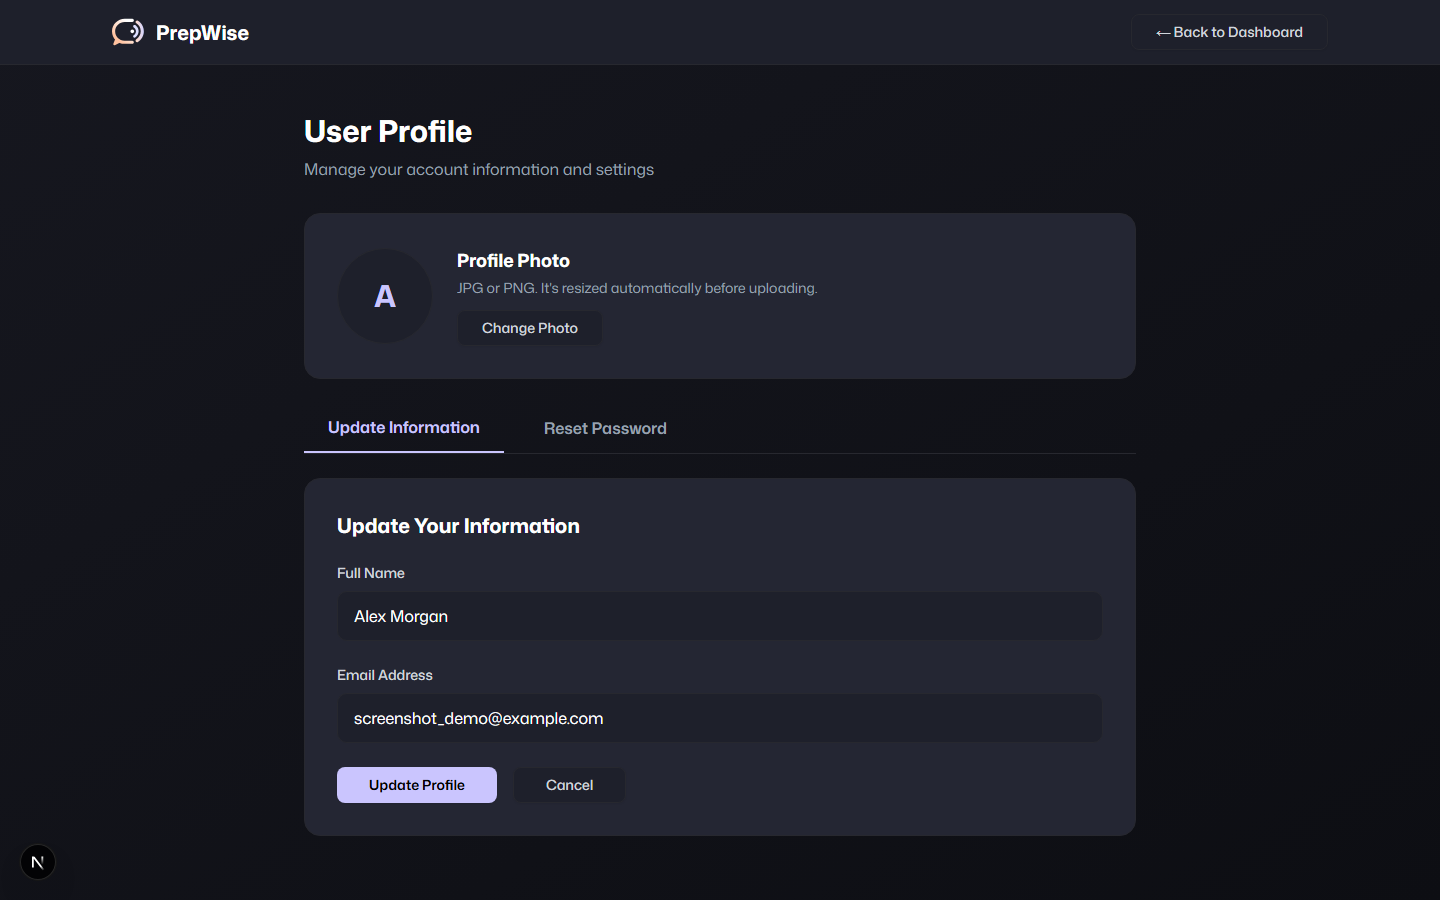
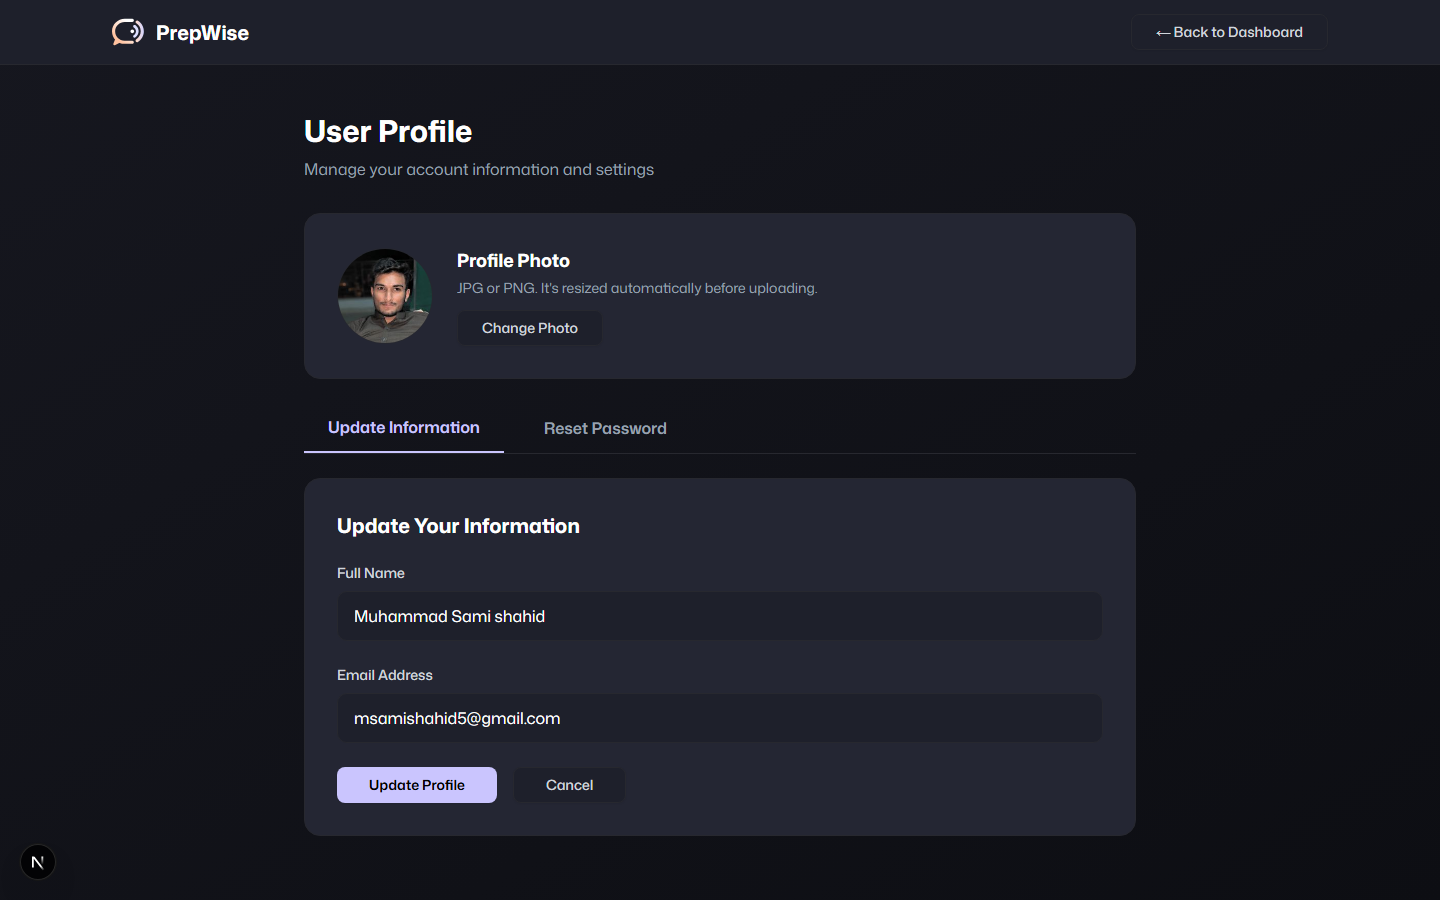
Replace screenshots with real account data; switch README layout to one per row
- Re-captured dashboard, live-call, and profile screenshots using the
  actual demo account's current name/photo/completed-interview state
  (matching what the user showed from their live deployed site), instead
  of the earlier generic placeholder data
- Screenshots section now lists one image per row instead of a 2-column
  table, for clearer/larger rendering

Changed region(s): [[0.2188, 0.28, 0.3125, 0.4044], [0.25, 0.6533, 0.375, 0.7156], [0.25, 0.7778, 0.4062, 0.8089]]

diff --git a/README.md b/README.md
@@ -17,21 +17,26 @@ The platform demonstrates the intersection of **Real-time Voice AI**, **LLM-driv
 
 ## 📸 Screenshots
 
-| Sign In | Sign Up |
-| :---: | :---: |
-| ![Sign in](docs/screenshots/sign-in.png) | ![Sign up](docs/screenshots/sign-up.png) |
+**Sign In**
+![Sign in](docs/screenshots/sign-in.png)
 
-| Dashboard |
-| :---: |
-| ![Dashboard](docs/screenshots/dashboard.png) |
+**Sign Up**
+![Sign up](docs/screenshots/sign-up.png)
 
-| Create Interview | Live Call |
-| :---: | :---: |
-| ![Create a new interview](docs/screenshots/interview-setup.png) | ![Live voice interview](docs/screenshots/interview-call.png) |
+**Dashboard**
+![Dashboard](docs/screenshots/dashboard.png)
 
-| Feedback | Profile |
-| :---: | :---: |
-| ![Interview feedback](docs/screenshots/feedback.png) | ![User profile](docs/screenshots/profile.png) |
+**Create a New Interview**
+![Create a new interview](docs/screenshots/interview-setup.png)
+
+**Live Voice Interview**
+![Live voice interview](docs/screenshots/interview-call.png)
+
+**Interview Feedback**
+![Interview feedback](docs/screenshots/feedback.png)
+
+**User Profile**
+![User profile](docs/screenshots/profile.png)
 
 ---
 
